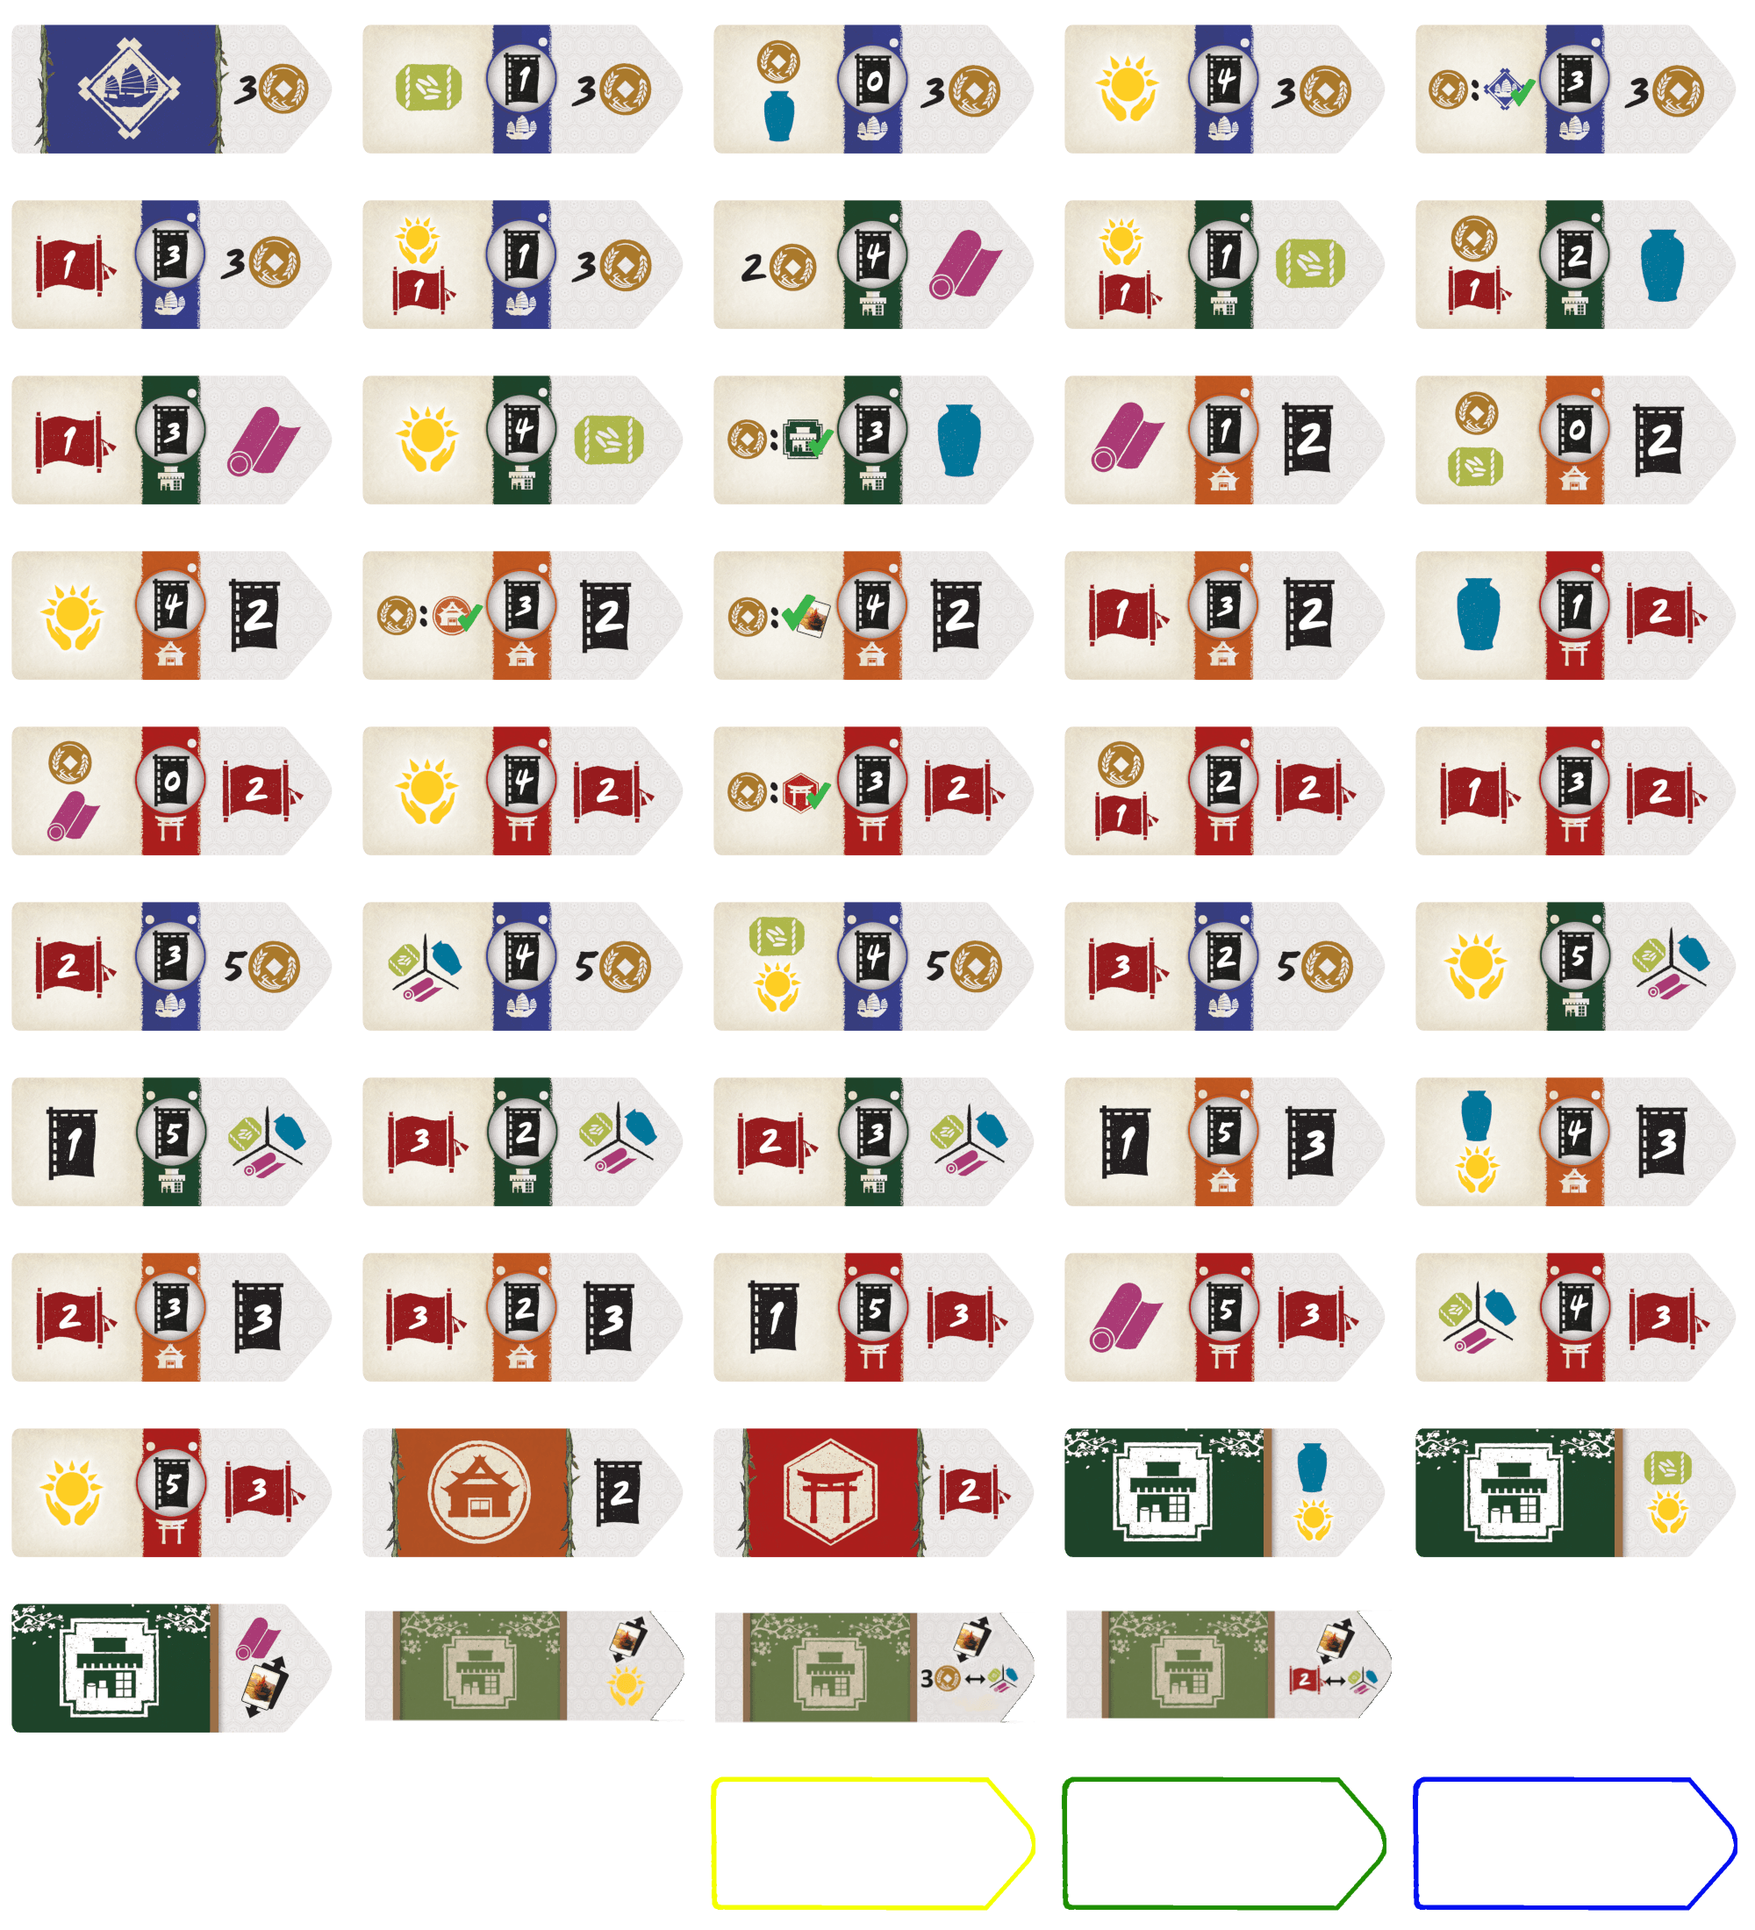
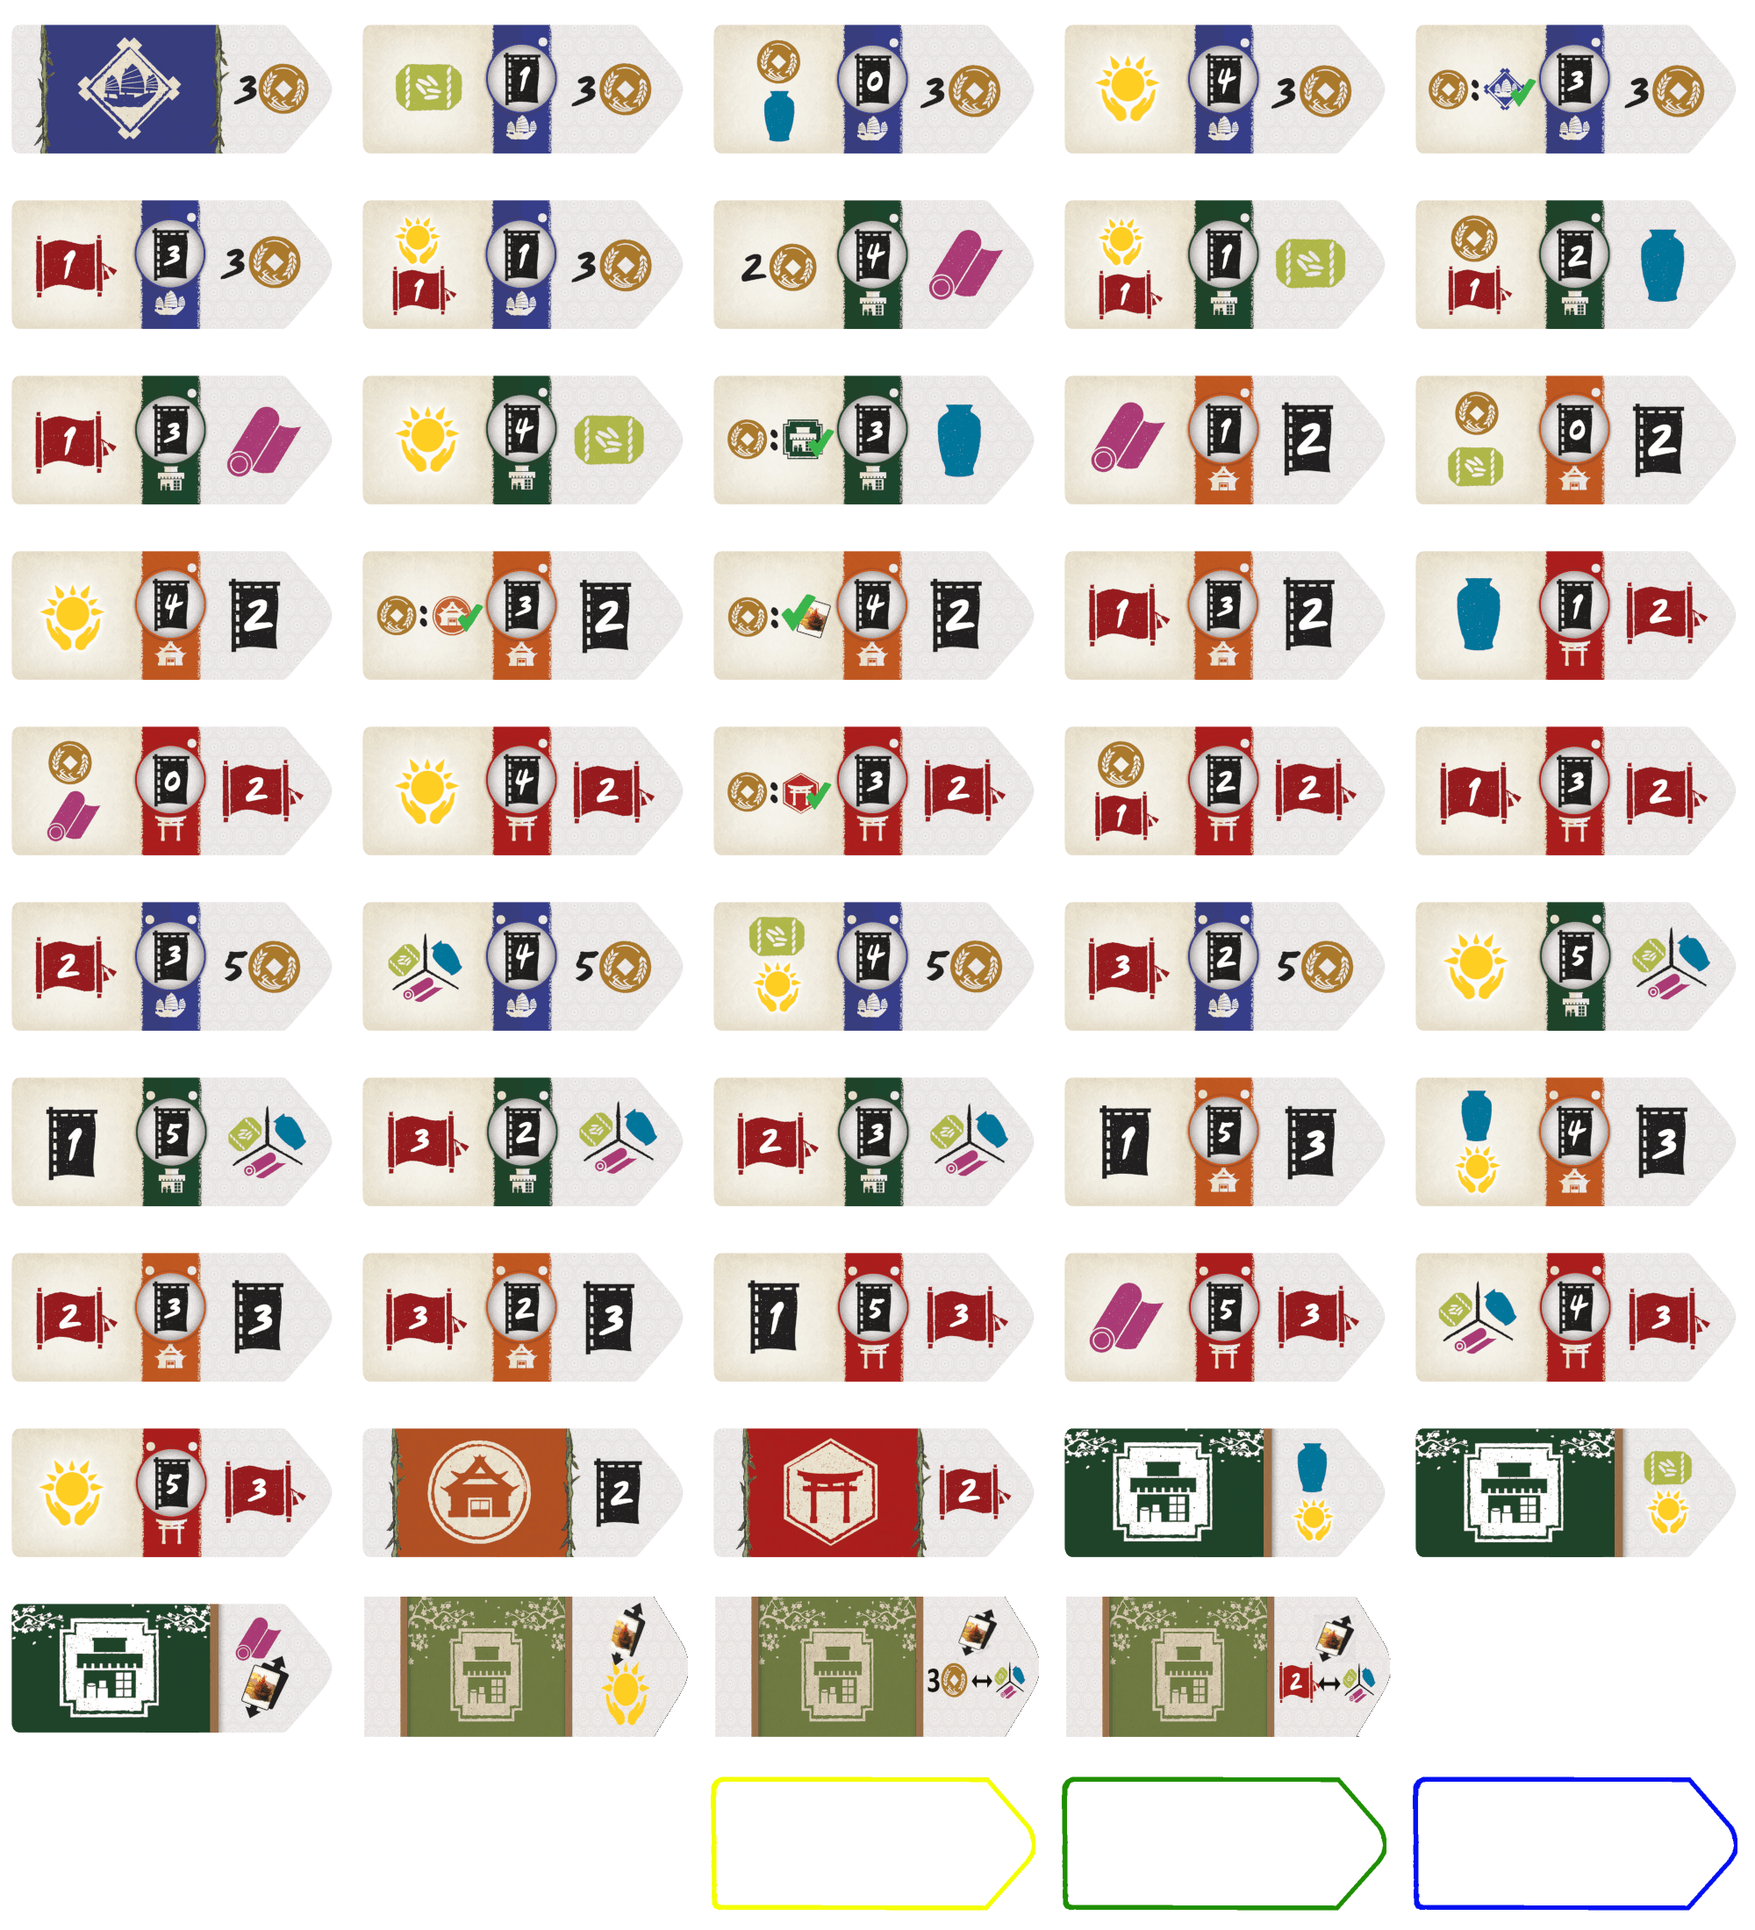
[Module 7] 3 New Imperial Markets
- new bonuses reward
- new bonuses icons
- reshape image

Changed region(s): [[0.217, 0.8036, 0.589, 0.9273], [0.62, 0.8036, 0.806, 0.9273]]

diff --git a/src/css/icons.scss b/src/css/icons.scss
@@ -94,6 +94,39 @@
     }
 }
 
+.rog_icon_bonus-44{//BONUS_TYPE_TRADE_KOKU
+    //look for an extract of the tile
+    background-image: url("img/tiles/buildings.png");
+    background-position-x: 50%;
+    background-position-y: 90%;
+    background-size: math.percentage(calc(math.div(2000px, 114px ))) math.percentage(math.div(2200px,45px ));
+    background-repeat: repeat !important;
+    width: calc( 0.6 * 114px);
+    height: calc( 0.6 * 45px);
+    background-position-x: calc( 0.6 * -1055px);
+    background-position-y: calc( 0.6 * -1894px);
+    border-radius: 10px;
+    .rog_icon_qty{
+        display: none;
+    }
+}
+.rog_icon_bonus-45{//BONUS_TYPE_TRADE_POINTS
+    //look for an extract of the tile
+    background-image: url("img/tiles/buildings.png");
+    background-position-x: 50%;
+    background-position-y: 90%;
+    background-size: math.percentage(calc(math.div(2000px, 112px ))) math.percentage(math.div(2200px,50px ));
+    background-repeat: repeat !important;
+    width: calc( 0.6 * 112px);
+    height: calc( 0.6 * 50px);
+    background-position-x: calc( 0.6 * -1456px);
+    background-position-y: calc( 0.6 * -1894px);
+    border-radius: 10px;
+    .rog_icon_qty{
+        display: none;
+    }
+}
+
 .rog_icon_container_ship-3{
     vertical-align: baseline;
 }

diff --git a/riverofgoldnightmarket.css b/riverofgoldnightmarket.css
@@ -6567,6 +6567,38 @@ body[data-rog_anim_ship_selected="2"] .rog_meeple.selected {
   display: none;
 }
 
+.rog_icon_bonus-44 {
+  background-image: url("img/tiles/buildings.png");
+  background-position-x: 50%;
+  background-position-y: 90%;
+  background-size: 1754.3859649123% 4888.8888888889%;
+  background-repeat: repeat !important;
+  width: 68.4px;
+  height: 27px;
+  background-position-x: -633px;
+  background-position-y: -1136.4px;
+  border-radius: 10px;
+}
+.rog_icon_bonus-44 .rog_icon_qty {
+  display: none;
+}
+
+.rog_icon_bonus-45 {
+  background-image: url("img/tiles/buildings.png");
+  background-position-x: 50%;
+  background-position-y: 90%;
+  background-size: 1785.7142857143% 4400%;
+  background-repeat: repeat !important;
+  width: 67.2px;
+  height: 30px;
+  background-position-x: -873.6px;
+  background-position-y: -1136.4px;
+  border-radius: 10px;
+}
+.rog_icon_bonus-45 .rog_icon_qty {
+  display: none;
+}
+
 .rog_icon_container_ship-3 {
   vertical-align: baseline;
 }

diff --git a/riverofgoldnightmarket.js b/riverofgoldnightmarket.js
@@ -1289,8 +1289,8 @@ function (dojo, declare, BgaAnimations) {
             let amount = args.nb;
             let bonusIcon = this.formatIcon('bonus-'+currentBonus, amount);
             this.bga.statusBar.setTitle(this.bga.players.isCurrentPlayerActive() ? 
-                _('${you} must select ${n} trades for ${bonus}').replace('${bonus}', bonusIcon).replace('${n}', amount) :
-                _('${actplayer} must select ${n} trades for ${bonus}').replace('${bonus}', bonusIcon).replace('${n}', amount)
+                _('${you} may select ${n} trades for ${bonus}').replace('${bonus}', bonusIcon).replace('${n}', amount) :
+                _('${actplayer} may select ${n} trades for ${bonus}').replace('${bonus}', bonusIcon).replace('${n}', amount)
             );
 
             let possibles = args.trades;

diff --git a/tests/States/BonusMultiTradesTest.php b/tests/States/BonusMultiTradesTest.php
@@ -172,6 +172,71 @@ final class BonusMultiTradesTest extends TestCase
         
         assertSame($expectedArgs, $args);
     }
+    
+    // -------------------------------------------------
+    public function test_Args_UniTrade2Points(): void
+    {
+        logTestRun(__CLASS__.".".__FUNCTION__);
+        $game = new GameMock();
+        $state = new BonusMultiTrades($game);
+        Globals::setChoices(0);
+        $currentBonus = BONUS_TYPE_TRADE_POINTS;
+        $currentBonusDatas = ['points'=>2,'bonusQuantity'=>1,];
+        Globals::setCurrentBonus($currentBonus);
+        Globals::setCurrentBonusDatas($currentBonusDatas);
+        TestDatas::$players[1]['resources'] = '{"1":3,"2":2,"3":1,"4":3,"5":1,"6":5}';
+        $expectedArgs = [
+            'skip' => true,
+            'c' => $currentBonus,
+            'nb' => 1,
+            'trades' => [
+                ['src' => ['type' => BONUS_TYPE_POINTS,'amount' => 2 ], 'dest' => ['type' => RESOURCE_TYPE_SILK     ,'amount' => 1 ]],
+                ['src' => ['type' => BONUS_TYPE_POINTS,'amount' => 2 ], 'dest' => ['type' => RESOURCE_TYPE_RICE     ,'amount' => 1 ]],
+                ['src' => ['type' => BONUS_TYPE_POINTS,'amount' => 2 ], 'dest' => ['type' => RESOURCE_TYPE_POTTERY  ,'amount' => 1 ]],
+                
+                ['src' => ['type' => RESOURCE_TYPE_SILK ,'amount' =>1 ],    'dest' => ['type' => BONUS_TYPE_POINTS    ,'amount' =>2 ]],
+                ['src' => ['type' => RESOURCE_TYPE_RICE ,'amount' =>1 ],    'dest' => ['type' => BONUS_TYPE_POINTS    ,'amount' =>2 ]],
+                ['src' => ['type' => RESOURCE_TYPE_POTTERY ,'amount' =>1 ], 'dest' => ['type' => BONUS_TYPE_POINTS    ,'amount' =>2 ]],
+            ],
+            'previousSteps' => [],
+            'previousChoices' => 0,
+        ];
+
+        $args = $state->getArgs();
+        
+        assertSame($expectedArgs, $args);
+    }
+    public function test_Args_UniTrade3Koku(): void
+    {
+        logTestRun(__CLASS__.".".__FUNCTION__);
+        $game = new GameMock();
+        $state = new BonusMultiTrades($game);
+        Globals::setChoices(0);
+        $currentBonus = BONUS_TYPE_TRADE_KOKU;
+        $currentBonusDatas = ['koku'=>3,'bonusQuantity'=>1,];
+        Globals::setCurrentBonus($currentBonus);
+        Globals::setCurrentBonusDatas($currentBonusDatas);
+        TestDatas::$players[1]['resources'] = '{"1":3,"2":2,"3":1,"4":3,"5":1,"6":5}';
+        $expectedArgs = [
+            'skip' => true,
+            'c' => $currentBonus,
+            'nb' => 1,
+            'trades' => [
+                ['src' => ['type' => RESOURCE_TYPE_SILK ,'amount' =>1 ],    'dest' => ['type' => RESOURCE_TYPE_MONEY  ,'amount' =>3 ]],
+                ['src' => ['type' => RESOURCE_TYPE_RICE ,'amount' =>1 ],    'dest' => ['type' => RESOURCE_TYPE_MONEY  ,'amount' =>3 ]],
+                ['src' => ['type' => RESOURCE_TYPE_POTTERY ,'amount' =>1 ], 'dest' => ['type' => RESOURCE_TYPE_MONEY  ,'amount' =>3 ]],
+                ['src' => ['type' => RESOURCE_TYPE_MONEY ,'amount' => 3 ],  'dest' => ['type' => RESOURCE_TYPE_SILK   ,'amount' =>1 ]],
+                ['src' => ['type' => RESOURCE_TYPE_MONEY ,'amount' => 3 ],  'dest' => ['type' => RESOURCE_TYPE_RICE   ,'amount' =>1 ]],
+                ['src' => ['type' => RESOURCE_TYPE_MONEY ,'amount' => 3 ],  'dest' => ['type' => RESOURCE_TYPE_POTTERY,'amount' =>1 ]],
+            ],
+            'previousSteps' => [],
+            'previousChoices' => 0,
+        ];
+
+        $args = $state->getArgs();
+        
+        assertSame($expectedArgs, $args);
+    }
     // -------------------------------------------------
  
     public function test_EnteringState_Pass(): void

diff --git a/tests/States/BonusChoiceTest.php b/tests/States/BonusChoiceTest.php
@@ -627,6 +627,59 @@ final class BonusChoiceTest extends TestCase
         //Next state differs for each bonus :
         assertSame(ST_BONUS_MULTI_TRADES, GamestateMachine::$test_current_state);
     }
+    
+    public function test_ActionBonus_Pass_UniTrade2Points(): void
+    {
+        logTestRun(__CLASS__.".".__FUNCTION__);
+        $game = new GameMock();
+        GamestateMachine::$test_current_state = ST_BONUS_CHOICE;
+        $bonusType = BONUS_TYPE_TRADE_POINTS;
+        $bonusKey = 1;
+        $bonuses = [
+            'datas' => [
+                $bonusType => [
+                    1 => ['points'=>2,'bonusQuantity'=>1,],
+                ],
+            ],
+        ];
+        TestDatas::$players[1]['bonuses'] = json_encode($bonuses);
+        $expectedBonuses = [
+        ];
+
+        $game->actBonus($bonusType,$bonusKey);
+        
+        assertSame(json_encode($expectedBonuses), TestDatas::$players[1]['bonuses']);
+        assertSame($bonusType, Globals::getCurrentBonus());
+        assertSame(['points'=>2,'bonusQuantity'=>1,], Globals::getCurrentBonusDatas());
+        //Next state differs for each bonus :
+        assertSame(ST_BONUS_MULTI_TRADES, GamestateMachine::$test_current_state);
+    }
+    public function test_ActionBonus_Pass_UniTrade3Koku(): void
+    {
+        logTestRun(__CLASS__.".".__FUNCTION__);
+        $game = new GameMock();
+        GamestateMachine::$test_current_state = ST_BONUS_CHOICE;
+        $bonusType = BONUS_TYPE_TRADE_KOKU;
+        $bonusKey = 1;
+        $bonuses = [
+            'datas' => [
+                $bonusType => [
+                    1 => ['koku'=>3,'bonusQuantity'=>1,],
+                ],
+            ],
+        ];
+        TestDatas::$players[1]['bonuses'] = json_encode($bonuses);
+        $expectedBonuses = [
+        ];
+
+        $game->actBonus($bonusType,$bonusKey);
+        
+        assertSame(json_encode($expectedBonuses), TestDatas::$players[1]['bonuses']);
+        assertSame($bonusType, Globals::getCurrentBonus());
+        assertSame(['koku'=>3,'bonusQuantity'=>1,], Globals::getCurrentBonusDatas());
+        //Next state differs for each bonus :
+        assertSame(ST_BONUS_MULTI_TRADES, GamestateMachine::$test_current_state);
+    }
 
     public function test_ActionBonus_KO_WrongBonus(): void
     {

diff --git a/tests/Models/RewardEntryTest.php b/tests/Models/RewardEntryTest.php
@@ -404,6 +404,48 @@ final class RewardEntryTest extends TestCase
         assertSame([BONUS_TYPE_DRAW], json_decode(TestDatas::$players[1]['bonuses'], true));
     }
     // -------------------------------------------------
+    public function test_rewardPlayer_BonusTradeKoku(): void
+    {
+        logTestRun(__CLASS__.".".__FUNCTION__);
+        $game = new GameMock();
+        $player = Players::get(1);
+        $region = 1;
+        $tile = new BuildingTile( TestDatas::$tiles[21], Tiles::getBuildingTilesTypes()[1]);
+        $reward = new RewardEntry(BONUS_TYPE_TRADE_KOKU,1);
+        $expectedBonuses = [
+            'datas' => [
+                BONUS_TYPE_TRADE_KOKU => [
+                    1 => ['koku'=>3,'bonusQuantity'=>1],
+                ],
+            ],
+        ];
+
+        $reward->rewardPlayer($player, $region,$tile);
+        
+        assertSame($expectedBonuses, json_decode(TestDatas::$players[1]['bonuses'], true));
+    }
+    // -------------------------------------------------
+    public function test_rewardPlayer_BonusTradePoints(): void
+    {
+        logTestRun(__CLASS__.".".__FUNCTION__);
+        $game = new GameMock();
+        $player = Players::get(1);
+        $region = 1;
+        $tile = new BuildingTile( TestDatas::$tiles[21], Tiles::getBuildingTilesTypes()[1]);
+        $reward = new RewardEntry(BONUS_TYPE_TRADE_POINTS,1);
+        $expectedBonuses = [
+            'datas' => [
+                BONUS_TYPE_TRADE_POINTS => [
+                    1 => ['points'=>2,'bonusQuantity'=>1],
+                ],
+            ],
+        ];
+
+        $reward->rewardPlayer($player, $region,$tile);
+        
+        assertSame($expectedBonuses, json_decode(TestDatas::$players[1]['bonuses'], true));
+    }
+    // -------------------------------------------------
     
     public function test_rewardPlayer_NotSupported(): void
     {

diff --git a/modules/php/States/BonusMultiTrades.php b/modules/php/States/BonusMultiTrades.php
@@ -72,6 +72,30 @@ class BonusMultiTrades extends GameState
           RESOURCE_TYPE_MONEY => [ 'amount' => 3, ] ,
         ];
         break;
+      case BONUS_TYPE_TRADE_POINTS:
+        $trades = [
+          BONUS_TYPE_POINTS =>  [ 'amount' => $currentBonusDatas['points'], ] ,
+          BONUS_TYPE_CHOICE =>  [ 'amount' => 1,
+            'selection' => [
+              RESOURCE_TYPE_SILK,
+              RESOURCE_TYPE_RICE,
+              RESOURCE_TYPE_POTTERY, 
+            ],
+          ],
+        ];
+        break;
+      case BONUS_TYPE_TRADE_KOKU:
+        $trades = [
+          BONUS_TYPE_CHOICE =>  [ 'amount' => 1,
+            'selection' => [
+              RESOURCE_TYPE_SILK,
+              RESOURCE_TYPE_RICE,
+              RESOURCE_TYPE_POTTERY, 
+            ],
+          ],
+          RESOURCE_TYPE_MONEY => [ 'amount' => $currentBonusDatas['koku'], ] ,
+        ];
+        break;
     }
 
     if($nbTrades < 1){

diff --git a/modules/php/Models/RewardEntry.php b/modules/php/Models/RewardEntry.php
@@ -92,9 +92,16 @@ class RewardEntry implements \JsonSerializable
       case BONUS_TYPE_DRAW:
         Globals::addBonus($player,BONUS_TYPE_DRAW);
         return;
+      case BONUS_TYPE_TRADE_KOKU:
+        Globals::addBonusWithDatas($player,BONUS_TYPE_TRADE_KOKU,['koku'=>3,'bonusQuantity'=>1]);
+        return;
+      case BONUS_TYPE_TRADE_POINTS:
+        Globals::addBonusWithDatas($player,BONUS_TYPE_TRADE_POINTS,['points'=>2,'bonusQuantity'=>1]);
+        return;
       default :
         Game::get()->error("Not supported reward ".$this->type);
         Notifications::message("Not supported reward ".$this->type);
+        return;
     }
   }
 }

diff --git a/modules/php/DebugTrait.php b/modules/php/DebugTrait.php
@@ -282,6 +282,8 @@ trait DebugTrait
     Globals::addBonusWithDatas($player,BONUS_TYPE_INF_SELECT_REGION,['region'=>3,'bonusQuantity'=>1]);
     Globals::addBonusWithDatas($player,BONUS_TYPE_MULTITRADE_2,['region'=>3,'bonusQuantity'=>4]);
     Globals::addBonusWithDatas($player,BONUS_TYPE_MULTITRADE_3,['region'=>3,'bonusQuantity'=>1]);
+    Globals::addBonusWithDatas($player,BONUS_TYPE_TRADE_KOKU,['koku'=>3,'bonusQuantity'=>1]);
+    Globals::addBonusWithDatas($player,BONUS_TYPE_TRADE_POINTS,['points'=>2,'bonusQuantity'=>1]);
     
     $this->gamestate->jumpToState(ST_BONUS_CHOICE);
   }

diff --git a/modules/php/States/BonusChoiceTrait.php b/modules/php/States/BonusChoiceTrait.php
@@ -145,6 +145,8 @@ trait BonusChoiceTrait
         break;
       case BONUS_TYPE_MULTITRADE_2:
       case BONUS_TYPE_MULTITRADE_3:
+      case BONUS_TYPE_TRADE_KOKU:
+      case BONUS_TYPE_TRADE_POINTS:
         $nextState = 'bonusMultiTrades';
         break;
       default:
